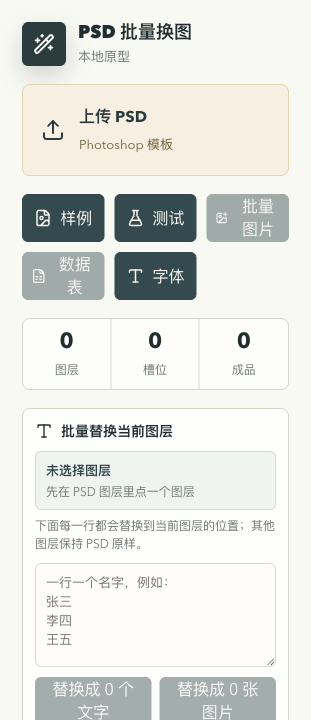
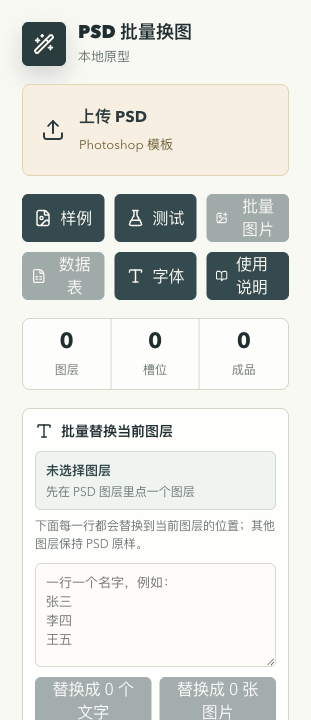
Add in-app guide link

Changed region(s): [[0.6367, 0.3361, 0.955, 0.4278]]

diff --git a/src/App.tsx b/src/App.tsx
@@ -2,6 +2,7 @@ import { useEffect, useMemo, useRef, useState, type ChangeEvent } from 'react'
 import {
   AlertTriangle,
   Archive,
+  BookOpen,
   Check,
   ChevronLeft,
   ChevronRight,
@@ -1722,6 +1723,14 @@ function App() {
             <Type size={18} />
             字体
           </button>
+          <a
+            href="https://github.com/siuserxiaowei/psd-batch-tool/blob/main/docs/usage.md"
+            target="_blank"
+            rel="noreferrer"
+          >
+            <BookOpen size={18} />
+            使用说明
+          </a>
         </div>
 
         <section className="metric-row">

diff --git a/src/App.css b/src/App.css
@@ -114,6 +114,7 @@ button {
 }
 
 .action-grid button,
+.action-grid a,
 .export-button {
   min-height: 42px;
   display: inline-flex;
@@ -125,17 +126,20 @@ button {
   border: 1px solid #2d4b4e;
   border-radius: 6px;
   cursor: pointer;
+  text-decoration: none;
   transition:
     background 140ms ease,
     transform 140ms ease,
     opacity 140ms ease;
 }
 
-.action-grid button {
+.action-grid button,
+.action-grid a {
   padding: 0 8px;
 }
 
 .action-grid button:hover,
+.action-grid a:hover,
 .export-button:hover {
   background: #173739;
   transform: translateY(-1px);

diff --git a/docs/usage.md b/docs/usage.md
@@ -39,6 +39,7 @@
 - 批量图片：上传头像、Logo、商品图等图片素材。
 - 数据表：上传 CSV 或 Excel 表格。
 - 字体：上传设计用字体。
+- 使用说明：打开这份操作文档。
 - 批量替换当前图层：临时输入一批名字，快速替换当前选中的图层。
 - 替换槽位：管理哪些图层可以被替换。
 - PSD 图层：从 PSD 里选择目标图层。
@@ -272,4 +273,3 @@ Logo_替换
 3. 上传素材和表格。
 4. 检查批量结果。
 5. 导出 PNG 包。
-
